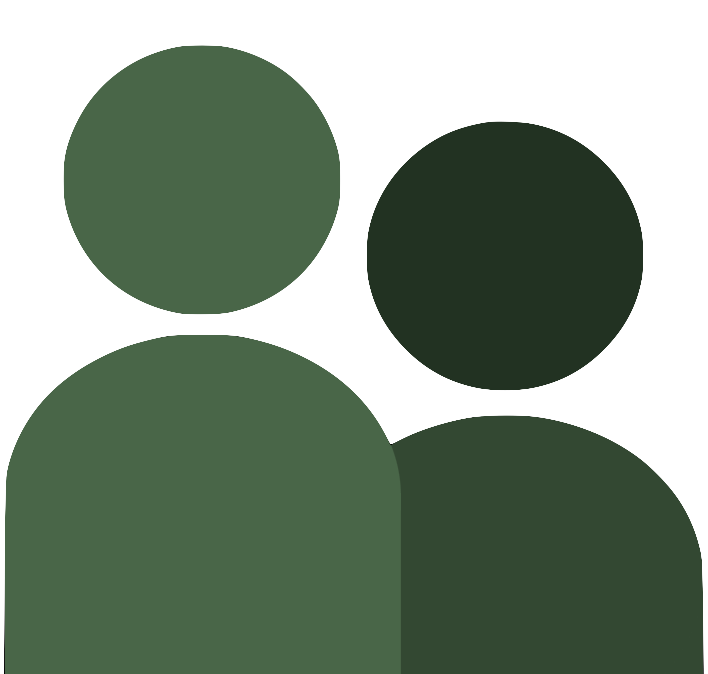
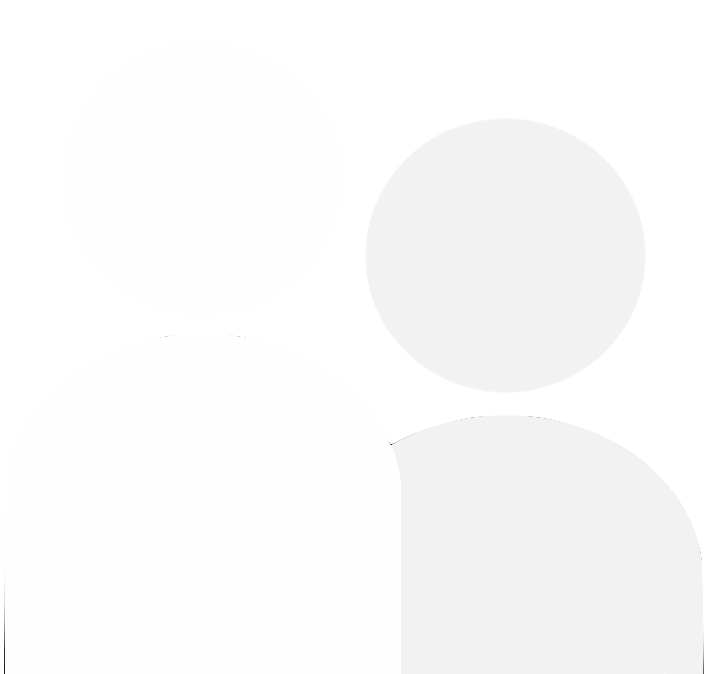
begin themes

diff --git a/src/components/RoundSummary.js b/src/components/RoundSummary.js
@@ -64,9 +64,9 @@ const RoundSummary = (props) => {
     }, [])
 
 
-    return <div id="round-summary">
-        <h1>ROUND SUMMARY</h1>
-        <h2>{cribIsMine ? "YOUR" : "THEIR"} CRIB</h2>
+    return <div id="round-summary" className="secondary primary-border">
+        <h1 className="font-secondary">ROUND SUMMARY</h1>
+        <h2 className="font-primary">{cribIsMine ? "YOUR" : "THEIR"} CRIB</h2>
 
         <div className="cards-div med-cards-div" id="rs-initial-hand-div">
             {displayCards.map((card, i) => {
@@ -91,13 +91,13 @@ const RoundSummary = (props) => {
 
         </div>
 
-        <h1 id="accuracy-percentage-label">
+        <h1 id="accuracy-percentage-label" className="font-secondary">
             {accuracyRating}%
         </h1>
         
-        <h3 id="accuracy-rating-label">ACCURACY RATING</h3>
+        <h3 id="accuracy-rating-label" className="font-primary">ACCURACY RATING</h3>
 
-        <button id="round-sum-continue-btn" onClick={() => {
+        <button id="round-sum-continue-btn" className="font-primary" onClick={() => {
             setShowRoundSummary(false);
             resetRound();
         }}>Continue</button>
@@ -113,8 +113,8 @@ const SummaryDiv = (props) => {
         combo
     } = props;
 
-    return <div id={isPlr ? "rs-plr-summary-div" : "rs-bot-summary-div"} className="rs-summary-div">
-        <h1 className="rs-plr-label">{isPlr ? "YOU" : "BOT"}</h1>
+    return <div id={isPlr ? "rs-plr-summary-div" : "rs-bot-summary-div"} className="rs-summary-div primary">
+        <h1 className="rs-plr-label font-secondary">{isPlr ? "YOU" : "BOT"}</h1>
 
         <div className="cards-div small-cards-div rs-crib-div">
             {combo["crib cards"].map((card, i) => {
@@ -124,7 +124,7 @@ const SummaryDiv = (props) => {
                 </div>
             })}
         </div>
-        <h2 className="rs-threw-label">{isPlr ? "YOU THREW" : "BEST THROW"}</h2>
+        <h2 className="rs-threw-label font-primary">{isPlr ? "YOU THREW" : "BEST THROW"}</h2>
 
         <SummaryEvaluationDiv 
             isHand={true}
@@ -141,7 +141,7 @@ const SummaryDiv = (props) => {
             potPoints={combo["potential crib points"]}
         />
 
-        <h2 className="score-label">Throw Score: {combo["overall score"]}</h2>
+        <h2 className="score-label font-secondary">Throw Score: {combo["overall score"]}</h2>
 
     </div>
 }
@@ -165,7 +165,7 @@ const SummaryEvaluationDiv = (props) => {
             })}
         </div>
 
-        <h2>{isHand ? "HAND" : "CRIB"} POINTS:</h2>
+        <h2 className="font-secondary">{isHand ? "HAND" : "CRIB"} POINTS:</h2>
         <ul className="points-list">
             {points.map((point, i) => {
                 let typeOfPoint = point[0];
@@ -182,20 +182,20 @@ const SummaryEvaluationDiv = (props) => {
                             </div>
                         })}
                     </div>
-                    <h4 className="type-of-point-label">{typeOfPoint}</h4>
+                    <h4 className="type-of-point-label font-primary">{typeOfPoint}</h4>
 
-                    <h2 className="point-count-label">{pointCount}</h2>
+                    <h2 className="point-count-label font-primary">{pointCount}</h2>
 
                     <hr/>
                 </li>
             })}
 
-            <li className="total-li">
+            <li className="total-li font-secondary">
                 <h4 className="type-of-point-label">Total:</h4>
                 <h2 className="point-count-label">{pointsTotal}</h2>
             </li>
 
-            <li className="total-li">
+            <li className="total-li font-secondary">
                 <h4 className="type-of-point-label">Potential:</h4>
                 <h2 className="point-count-label">{potPoints}</h2>
             </li>

diff --git a/src/pages/Home.js b/src/pages/Home.js
@@ -80,17 +80,17 @@ const Home = () => {
         </button>
 
         <div id="crib-div">
-            <h2><i>The crib is:</i></h2>
+            <h2 className="font-primary"><i>The crib is:</i></h2>
             <h1 id="crib-owner-label" className={`${cribIsMine ? "your-crib" : "their-crib"}`}>
                 {cribIsMine ? "YOURS" : "THEIRS"}
             </h1>
         </div>
 
         <div>
-            <h2 id="select-label">Select two cards to send to the crib.</h2>
+            <h2 id="select-label" className="font-primary">Select two cards to send to the crib.</h2>
         </div>
 
-        <div className="cards-div large-cards-div" id="home-cards-div">
+        <div className="cards-div large-cards-div secondary primary-border" id="home-cards-div">
             {displayCards && displayCards.map((card, i) => {
                 return <div className={`card ${card.isRed ? "red" : "black"} ${selectedCards.indexOf(card) !== -1 && "selected"}`} key={i} onClick={() => {
                     if (selectedCards.indexOf(card) === -1) {
@@ -103,11 +103,11 @@ const Home = () => {
             })}
         </div>
 
-        <button id="cards-sort-btn" onClick={() => {
+        <button id="cards-sort-btn" className="primary font-secondary" onClick={() => {
             setDisplayCards(myHand.sortedCards);
         }}>Sort</button>
 
-        <button id="submit-btn" onClick={() => {
+        <button id="submit-btn" className="primary font-secondary" onClick={() => {
 
             let myComboIsBestCombo = true;
 

diff --git a/src/styles/RoundSummary.css b/src/styles/RoundSummary.css
@@ -19,7 +19,6 @@
 #round-summary > h1 {
     width: 100%;
     text-align: center;
-    color: white;
     margin-bottom: 0px;
     top: 0px;
 }
@@ -27,7 +26,6 @@
 #round-summary > h2 {
     width: 100%;
     text-align: center;
-    color: black;
     top: -20px;
 }
 
@@ -54,7 +52,6 @@
     overflow-y: scroll;
     overflow-x: hidden;
     border-radius: 10px;
-    color: white;
 }
 
 .rs-plr-label {
@@ -76,12 +73,10 @@
     text-align: center;
     position: relative;
     top: -50px;
-    color: black;
     margin-bottom: -30px;
 }
 
 .points-list {
-    color: black;
     list-style: none;
 }
 
@@ -142,9 +137,6 @@
     height: 50px;
 }
 
-.total-li {
-    color: white;
-}
 
 .score-label {
     margin-right: 10px;
@@ -156,18 +148,16 @@
 #accuracy-rating-label {
     height: 25px;
     width: 100%;
-    color: white;
     position: relative;
     top: -97.5px !important;
     text-align: center;
-    color: black !important;
     font-weight: bolder;
     font-size: 15px;
     z-index: 5;
 }
 
 #accuracy-percentage-label {
-    background-color: rgb(42, 74, 37);
+    background-color: rgba(0, 0, 0, 0.1);
     top: -75px !important;
     font-size: 50px;
     position: relative;

diff --git a/src/components/Leaderboard.js b/src/components/Leaderboard.js
@@ -37,18 +37,18 @@ const Leaderboard = (props) => {
         fetchUsers();
     }, [])
 
-    return <div id="leaderboard">
-        <h1>Leaderboard</h1>
+    return <div id="leaderboard" className="primary">
+        <h1 className="font-secondary">Leaderboard</h1>
         <ul id="leaderboard-list">
             {users.map((user, i) => {
-                return <li key={i} className={`leaderboard-item ${i === 0 ? "first" : i === 1 ? "second" : i === 2 ? "third" : ""}`}>
+                return <li key={i} className={`leaderboard-item secondary ${i === 0 ? "first" : i === 1 ? "second" : i === 2 ? "third" : "font-secondary"}`}>
                     <h3>{user.username}</h3>
                     <h5>{getAverageScore(user.mostRecentRatings)}%</h5>
                     <h5>lvl {Math.floor(user.level)}</h5>
                 </li>
             })}
         </ul>
-        <button id="leaderboard-close-btn" onClick={() => setShowLeaderboard(false)}>Close</button>
+        <button id="leaderboard-close-btn" className="font-primary" onClick={() => setShowLeaderboard(false)}>Close</button>
     </div>
 }
 

diff --git a/src/styles/Themes.css b/src/styles/Themes.css
@@ -1,0 +1,16 @@
+
+.default { background-color: rgb(154, 177, 152) !important; }
+
+.default * .primary { background-color: rgb(28, 49, 26) !important; }
+.default > .primary { background-color: rgb(28, 49, 26) !important; }
+
+.default * .primary-border { border-color: rgb(28, 49, 26) !important; }
+
+.default * .secondary { background-color: rgb(47, 79, 42) !important; }
+
+.default * .font-primary { color: rgb(5, 5, 8) !important; }
+.default > .font-primary { color: rgb(5, 5, 8) !important; }
+
+.default * .font-secondary { color: rgb(248, 248, 245) !important; }
+.default > .font-secondary { color: rgb(248, 248, 245) !important; }
+

diff --git a/src/styles/Leaderboard.css b/src/styles/Leaderboard.css
@@ -1,5 +1,4 @@
 #leaderboard {
-    background-color: rgb(28, 49, 26);
     height: 700px;
     width: 450px;
     left: calc(50% - 225px);
@@ -10,7 +9,6 @@
 }
 
 #leaderboard > h1 {
-    color: white;
     text-align: center;
     position: relative;
     top: 20px;
@@ -26,7 +24,6 @@
 }
 
 .leaderboard-item {
-    background-color: rgb(40, 66, 38);
     margin-left: -30px;
     width: calc(100% + 20px);
     border-radius: 10px;
@@ -56,7 +53,6 @@
     margin: 0px;
     margin-left: 10px;
     margin-right: 10px;
-    color: white;
     font-size: 18px;
     position: relative;
 }

diff --git a/src/styles/Home.css b/src/styles/Home.css
@@ -73,9 +73,8 @@
 }
 
 #home-cards-div {
-    background-color: rgb(47, 79, 42);
     border-radius: 30px;
-    border: 5px solid rgb(28, 49, 26);
+    border: 5px solid;
     margin-top: 0px !important;
 }
 
@@ -166,7 +165,6 @@
     font-weight: bold;
     top: -65px !important;
     background-color: rgb(28, 49, 26);
-    color: white;
 }
 
 #submit-btn {
@@ -181,7 +179,6 @@
     font-weight: bold;
     font-size: 18px;
     background-color: rgb(28, 49, 26);
-    color: white;
 }
 
 @media screen and (max-width: 650px) {

diff --git a/src/styles/Auth.css b/src/styles/Auth.css
@@ -2,17 +2,18 @@
     height: 225px;
     width: 340px;
     position: relative;
-    left: calc(50% - 185px);
+    left: calc(50% - 190px);
     margin-top: 50px;
-    border-radius: 10px;
+    border-radius: 15px;
     padding: 20px 10px 20px 10px;
     background-color: rgb(47, 79, 42);
     color: rgb(213, 213, 213);
-    border: 5px solid rgb(34, 57, 31);
+    border: 10px solid rgb(34, 57, 31);
 }
 
 .auth-container > form > h2 {
     color: white;
+    font-size: 26px;
 }
 
 .form-group {

diff --git a/src/App.js b/src/App.js
@@ -1,6 +1,7 @@
 import { BrowserRouter as Router, Routes, Route } from "react-router-dom";
 
 import "./styles/App.css";
+import "./styles/Themes.css";
 
 import Home from "./pages/Home.js";
 import Themes from "./pages/Themes.js";
@@ -9,7 +10,7 @@ import Auth from "./pages/Auth.js";
 import Navbar from "./components/Navbar.js";
 
 function App() {
-  return <div id="app">
+  return <div id="app" className="background default">
     <Router>
       <Navbar/>
       <Routes>

diff --git a/src/styles/Navbar.css b/src/styles/Navbar.css
@@ -4,14 +4,13 @@
     left: 0px;
     top: 0px;
     position: fixed;
-    background-color: rgb(28, 49, 26);
     border-bottom-left-radius: 10px;
     border-bottom-right-radius: 10px;
 }
 
 .nav-btn {
     text-decoration: none;
-    color: white;
+    color: inherit;
     background-color: rgba(0, 0, 0, 0);
     border-width: 0px;
     font-size: 22px;

diff --git a/src/components/Navbar.js b/src/components/Navbar.js
@@ -14,7 +14,7 @@ const Navbar = () => {
         navigate("/auth");
     }
 
-    return <div id="navbar">
+    return <div id="navbar" className="primary font-secondary">
         <Link to={"/"} className="nav-btn"> Home </Link>
         {!cookies.access_token ? 
             <Link to={"/auth"} className="nav-btn"> Login </Link>

diff --git a/src/pages/Auth.js b/src/pages/Auth.js
@@ -106,7 +106,7 @@ const Form = ({
     currAuthDiv,
     setCurrAuthDiv
 }) => {
-    return <div className="auth-container">
+    return <div className="auth-container secondary primary-border">
         <form onSubmit={onSubmit}>
             <h2>{label}</h2>
 
